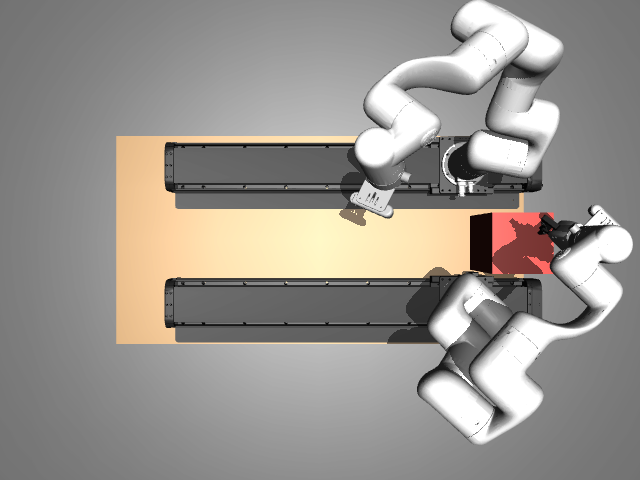
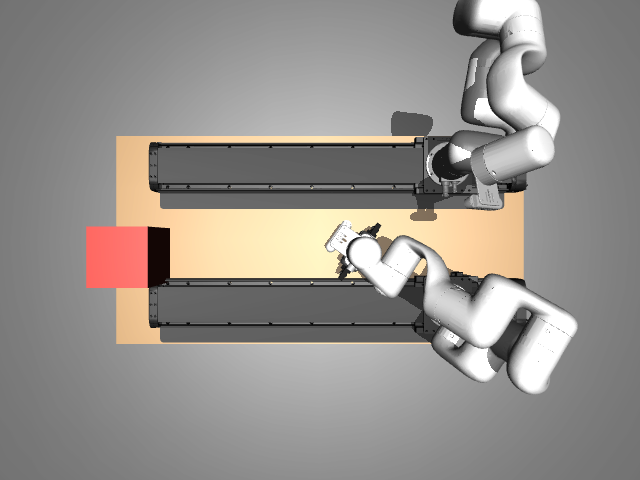
docs: mavis_v2 obstacle at the left end, rail zero flush right; renders

Changed region(s): [[0.5, 0.0, 1.0, 0.9375], [0.125, 0.4688, 0.2812, 0.7188], [0.2188, 0.2812, 0.2812, 0.4375]]

diff --git a/docs/design/03-sim.md b/docs/design/03-sim.md
@@ -213,19 +213,20 @@ thin cable-tray plate toward the interior, zero at the right end, travel toward
 | camera rail (`view`, camera-only) | outer edge 2.6 cm from the table's outer edge | y0 = 0.31 − 0.026 − 0.0724 = **0.2116** |
 | gripper rail (`grip`, gripper + wrist cam) | 39.5 cm inward (base lines) | y0 = 0.2116 − 0.395 = **−0.1834**; plate edge 0.66 cm from the inner table edge |
 | channel | between the rail bodies | y ∈ [−0.111, 0.0916] (20.3 cm with the 19.2 cm mavis mesh) |
-| rail zero | arm base *right side* 14 cm from the right edge | x0 = 0.6075 − 0.14 − 0.063 = **0.4045** (base centre); the mavis mesh's zero end overhangs the table end by 4.5 cm — unverified |
-| obstacle | 0.16 × 0.16 × 0.24 m, flush against the right edge, in the channel beside the gripper carriage; near face ~27.5 cm in from the outer edge | half `[0.08, 0.08, 0.12]` at `(0.5275, −0.0084, 0.855)`, i.e. depth 23.8–39.8 cm: placed 0.5 cm clear of the (mesh) carriage sweep because 27.5–43.5 would overlap the mesh rail body by 1.4 cm and the carriage by 3.2 cm |
-| keyframe | rails at zero; gripper hovering over the obstacle, tool down, TCP 14.5 cm above its top; camera arm turned round (j1 ≈ π) looking into the channel | audit-clean at δ = 0.008 and 0.025 |
-| `allowed_pairs` | carriages ↔ table (24 mm by construction); gripper carriage ↔ obstacle (slides past it 0.5 cm away) | three pairs |
+| rail zero | the rails' zero end is flush with the table's right edge; the arms' carriage ~14 cm from it | x0 = 0.6075 − 0.2476 = **0.3599** (base centre; mesh zero-end overhang 0.2476); carriage right edge 15.0 cm, base cylinder 18.5 cm from the edge |
+| obstacle | 0.16 × 0.16 × 0.24 m untouchable block, flush against the **left** edge (the empty end) in the channel; near face 27.5 cm in from the outer edge | half `[0.08, 0.08, 0.12]` at `(−0.5275, −0.045, 0.855)`, y ∈ [−0.125, 0.035]; its inner face is 1.4 cm past the mesh gripper-rail inner edge and the 1.0926 m mesh rail reaches 3.8 cm into its x-span — a static corner overlap (mesh vs real track), harmless to twin and physics |
+| keyframe | rails at zero (right end); gripper elbow-up in the channel, tool down, TCP 4.5 cm below the obstacle top; camera arm turned round (j1 ≈ π) looking down the channel | audit-clean at δ = 0.008 and 0.025 |
+| `allowed_pairs` | carriages ↔ table (24 mm by construction) | two pairs |
 
 Rail mesh facts used (mavis asset, unverified vs hardware — phase-09 item):
 across-axis extent `[−0.120, +0.0724]` m about the base line (the −0.120 side is
 a 3 mm cable-tray plate; main body 14.2 cm), carriage `[−0.080, +0.090]` across /
 `[−0.098, +0.088]` along, 1.0926 m long with 0.2476 m beyond the carriage at
-q = 0. Open items for the phase-09 calibration: the real rail/carriage width
-(the obstacle in the lab sits against the gripper rail at ~27.5 cm depth, which
-only fits if the real rail is ~1.5–3 cm narrower than the mesh), the rail's
-zero-end overhang, and whether the 14 cm reads to the base or to the carriage.
+q = 0. Open items for the phase-09 calibration: the mesh rail length/width vs
+the real track (the obstacle's inner face at 43.5 cm depth is 1.4 cm past the
+mesh gripper-rail edge, and the mesh rail's left end reaches 3.8 cm into the
+obstacle's x-span) and the mesh's zero-end overhang (sets x0 from the flush
+right end).
 
 ## 5. Scene composition via `mujoco.MjSpec`
 
@@ -651,8 +652,8 @@ matching `target_pair_prefixes` counts as a real-contact failure.
 Scenarios: `env_table_descend` (−z into table), `env_pedestal_sweep` (+x
 into pedestal) for arm↔environment; `cross_arm_head_on` (+y toward arm1),
 `cross_arm_rail_converge` (rail drive toward arm1) for arm↔arm;
-`mavis_v2_obstacle_descend` (the lab cell's gripper arm −z onto its obstacle,
-§4.3) as the deployment cell's own regression.
+`mavis_v2_rail_sweep` (the lab cell's gripper arm −x along the channel into
+its obstacle, §4.3) as the deployment cell's own regression.
 
 **Assertion contract** (11-safety §5.1 — all must hold; failures name the
 scenario):

diff --git a/docs/prompts/phase-09-todo.md b/docs/prompts/phase-09-todo.md
@@ -31,11 +31,11 @@
 - [ ] 物理测量项：6 个示教位姿的卷尺实测 clearance（对 twin ≤4 mm）、
       各臂 `base_in_world` 与 rail 原点实测、相机外参标定（标定板）。
 - [ ] **mavis_v2 场景校准**（`apollo-xarm7-sim/.../scenes/mavis_v2.yaml` 头部有全部
-      假设）：① 实物轨道/滑块宽度——口述障碍物纵深 27.5 起、贴 gripper 轨内侧，按
-      mavis 网格（轨 19.2 cm、滑块凸出 1.8 cm）会重叠 3 cm，孪生里暂放纵深 23.8 起，
-      实测后回调；② 轨道零位端悬出长度（网格按基座右侧距右沿 14 cm 会伸出台面 4.5 cm）；
-      ③ "14 cm"量到基座还是滑块；④ 两轨 base 间距 39.5 与相机轨外沿 2.6 复核；
-      ⑤ 臂法兰安装面高出台面 0.107188 m 是否属实；⑥ 电机盒在哪一端。
+      假设）：① mavis 轨道网格长 1.0926 m、零位端到基座中心 0.2476 m——按"右端与台面
+      齐平"反推 x0=0.3599，滑块右边距右沿 15.0 cm（口述 14）；实测轨长/零位端悬出后回调；
+      ② 障碍物（左端、纵深 27.5 起）内角与 gripper 轨网格左端有 1.4×3.8 cm 静态重叠，
+      说明网格轨比实物长/宽一点；③ 两轨 base 间距 39.5、相机轨外沿 2.6、轨宽 19.2 已确认，
+      复核即可；④ 臂法兰安装面高出台面 0.107188 m 是否属实；⑤ 电机盒在哪一端。
 - [ ] watchdog/急停课目（拔 WS、手拍碰撞、物理急停）需要你现场触发。
 - [ ] 验收表逐项签核。
 

diff --git a/CLAUDE.md b/CLAUDE.md
@@ -39,8 +39,8 @@ clones (gitignored by the ws repo until converted to submodules).
 - Lab cell geometry (tape-measured 2026-09-02): 1.215 × 0.62 × 0.03 m table, top
   0.735 m above the floor; two identical rails 39.5 cm apart along the long axis
   (camera-only arm on the outer rail, 2.6 cm from the edge the arms face; gripper +
-  wrist-cam arm inward), zero at the right end; 0.16 × 0.16 × 0.24 m untouchable
-  obstacle flush against the right end in the channel between the rails. Encoded in
+  wrist-cam arm inward), zero at the right end flush with the table edge; 0.16 × 0.16 ×
+  0.24 m untouchable obstacle flush against the LEFT end in the channel. Encoded in
   apollo-xarm7-sim `scenes/mavis_v2.yaml` (header lists every measurement and the
   assumptions to confirm in phase-09); docs/design/03-sim.md §4.3 has the arithmetic.
 - Machine: Ubuntu 22.04, 2× RTX 4090, node 22, nmcli available. Python: core/sim/

diff --git a/docs/design/11-safety-collision.md b/docs/design/11-safety-collision.md
@@ -152,8 +152,8 @@ def main(argv: list[str]) -> int: ...      # exit 0 = all assertions pass; nonze
 Scenarios: `env_table_descend` (−z into table), `env_pedestal_sweep` (+x into
 pedestal) for arm↔environment; `cross_arm_head_on` (+y toward arm1),
 `cross_arm_rail_converge` (rail drive toward arm1) for arm↔arm;
-`mavis_v2_obstacle_descend` (the lab cell's gripper arm onto its obstacle, 03-sim
-§4.3) as the deployment cell's own regression. Each builds a
+`mavis_v2_rail_sweep` (the lab cell's gripper arm along the channel into its
+obstacle, 03-sim §4.3) as the deployment cell's own regression. Each builds a
 `safety_debug` session programmatically (no server), injects a synthetic `TeleopInput`
 holding the twist, and steps the control loop tick-by-tick. **Ground truth** = the
 *physics* model with zero inflation: any tick with a `mj_collision` contact `dist <=
